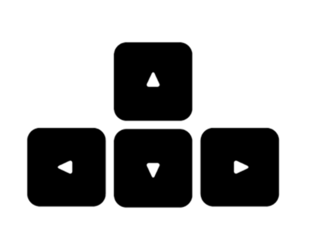
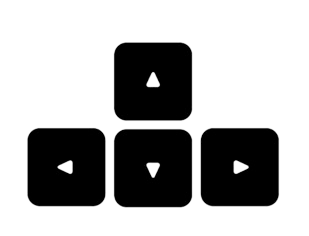
- adding "Escape" keyboard feature when editing notes titles's - removing the background from the arrow keys image

diff --git a/src/components/Note/Note.jsx b/src/components/Note/Note.jsx
@@ -49,6 +49,9 @@ export function Note({
       if (editing) stopEditing(e)
       else startEditing(e);
     }
+    if (e.key === 'Escape') {
+      if (editing) stopEditing(e);
+    }
     if (e.key === 'Delete') {
       if (!editing) remove();
     }
